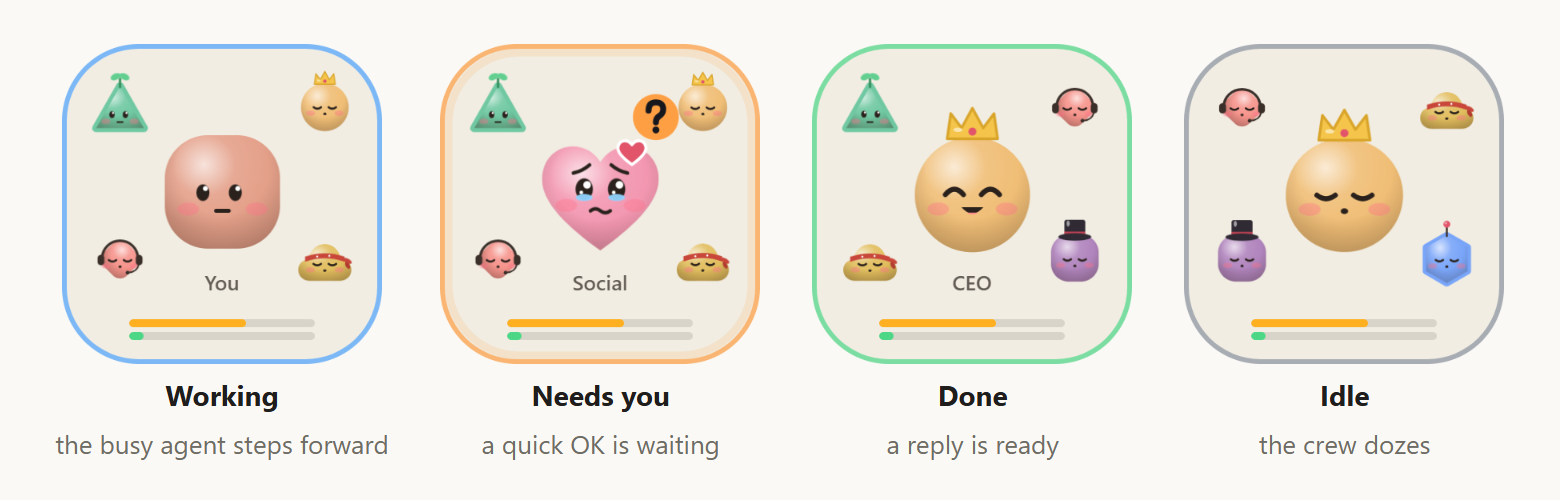
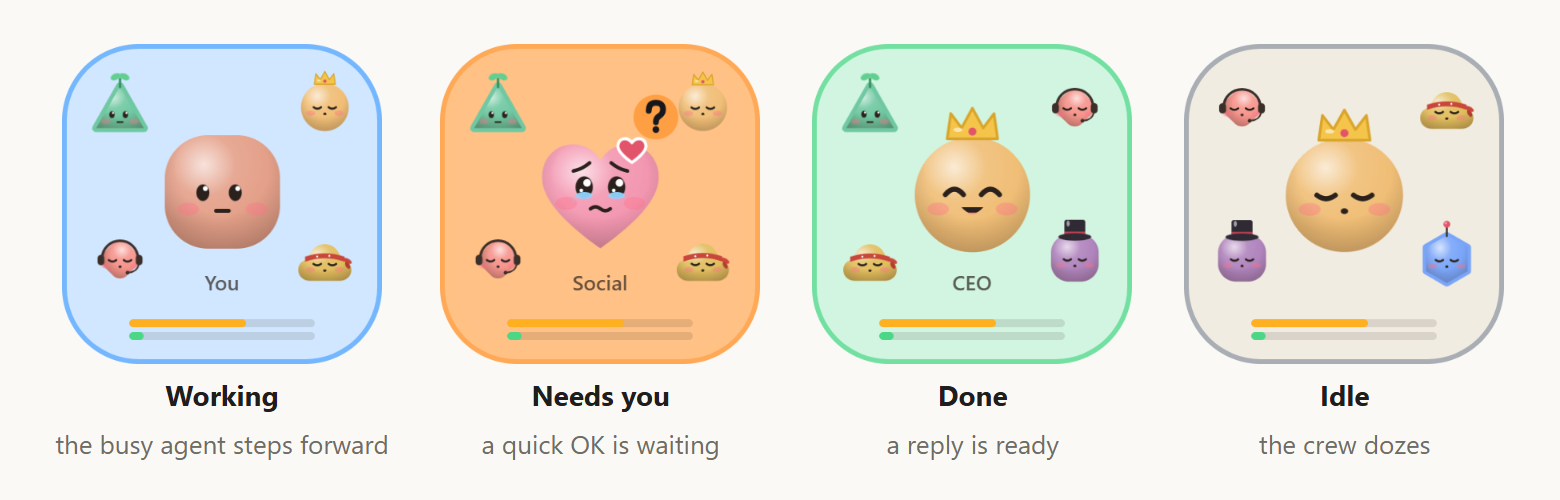
README: claude-face's colours, the + for new agents, faces in the profile

Changed region(s): [[0.2769, 0.09, 0.4923, 0.75], [0.0308, 0.09, 0.2462, 0.72], [0.5231, 0.09, 0.7385, 0.72]]

diff --git a/README.md b/README.md
@@ -109,20 +109,22 @@ The request appears at the top of the chat and under **Needs you**, and a notifi
 
 <table>
 <tr>
-<td width="50%"><img src="assets/readme/new-agent.png" alt="New agent: a name, an icon and a one-line description" width="100%"></td>
+<td width="50%"><img src="assets/readme/new-agent.png" alt="New agent: a name, a face and a one-line description" width="100%"></td>
 <td width="50%"><img src="assets/readme/agent-draft.png" alt="The CEO's draft of the new agent, waiting for approval" width="100%"></td>
 </tr>
 </table>
 
-Click **New agent**, give it a name, an icon and a sentence about what it should do. The CEO
+Click **+** at the top of the Crew window, give the new agent a name, a face and a sentence
+about what it should do. The CEO
 drafts its role and rules, and nothing is created until you approve the draft. The new agent
 joins the team straight away.
 
 ## Make it yours
 
-<img src="assets/readme/profile.png" alt="Agent profile: rename an agent or pick one of 25 icons" width="900">
+<img src="assets/readme/profile.png" alt="Agent profile: rename an agent or pick one of 25 faces" width="900">
 
-Rename any agent and pick one of 25 icons. The agent is told its new name.
+Click an agent's name at the top of its chat to rename it or give it a different face, out of 25
+little characters. The agent is told its new name, and claude-face shows the new face too.
 
 ## A memory that grows with you
 
@@ -138,7 +140,9 @@ down on a reply makes the agent review how it works.
 A little crew that floats on your screen and shows what your agents are doing, so you don't
 have to keep checking the window. The agent that matters most steps forward, wearing its own
 face and name: one that needs you, then one that has just finished, then one at work. The others
-wait small in the corners. Click it to jump to that agent in Crew. Minimised, it's a small round
+wait small in the corners, and the whole badge takes the colour of what is happening: pale blue
+while one works, pale green when done, and an orange that slowly deepens when one needs you.
+Click it to jump to that agent in Crew. Minimised, it's a small round
 badge with just that face. `/crew:setup` offers to install it; turn it on or off with the
 **Face** switch at the top of the Crew window.
 
